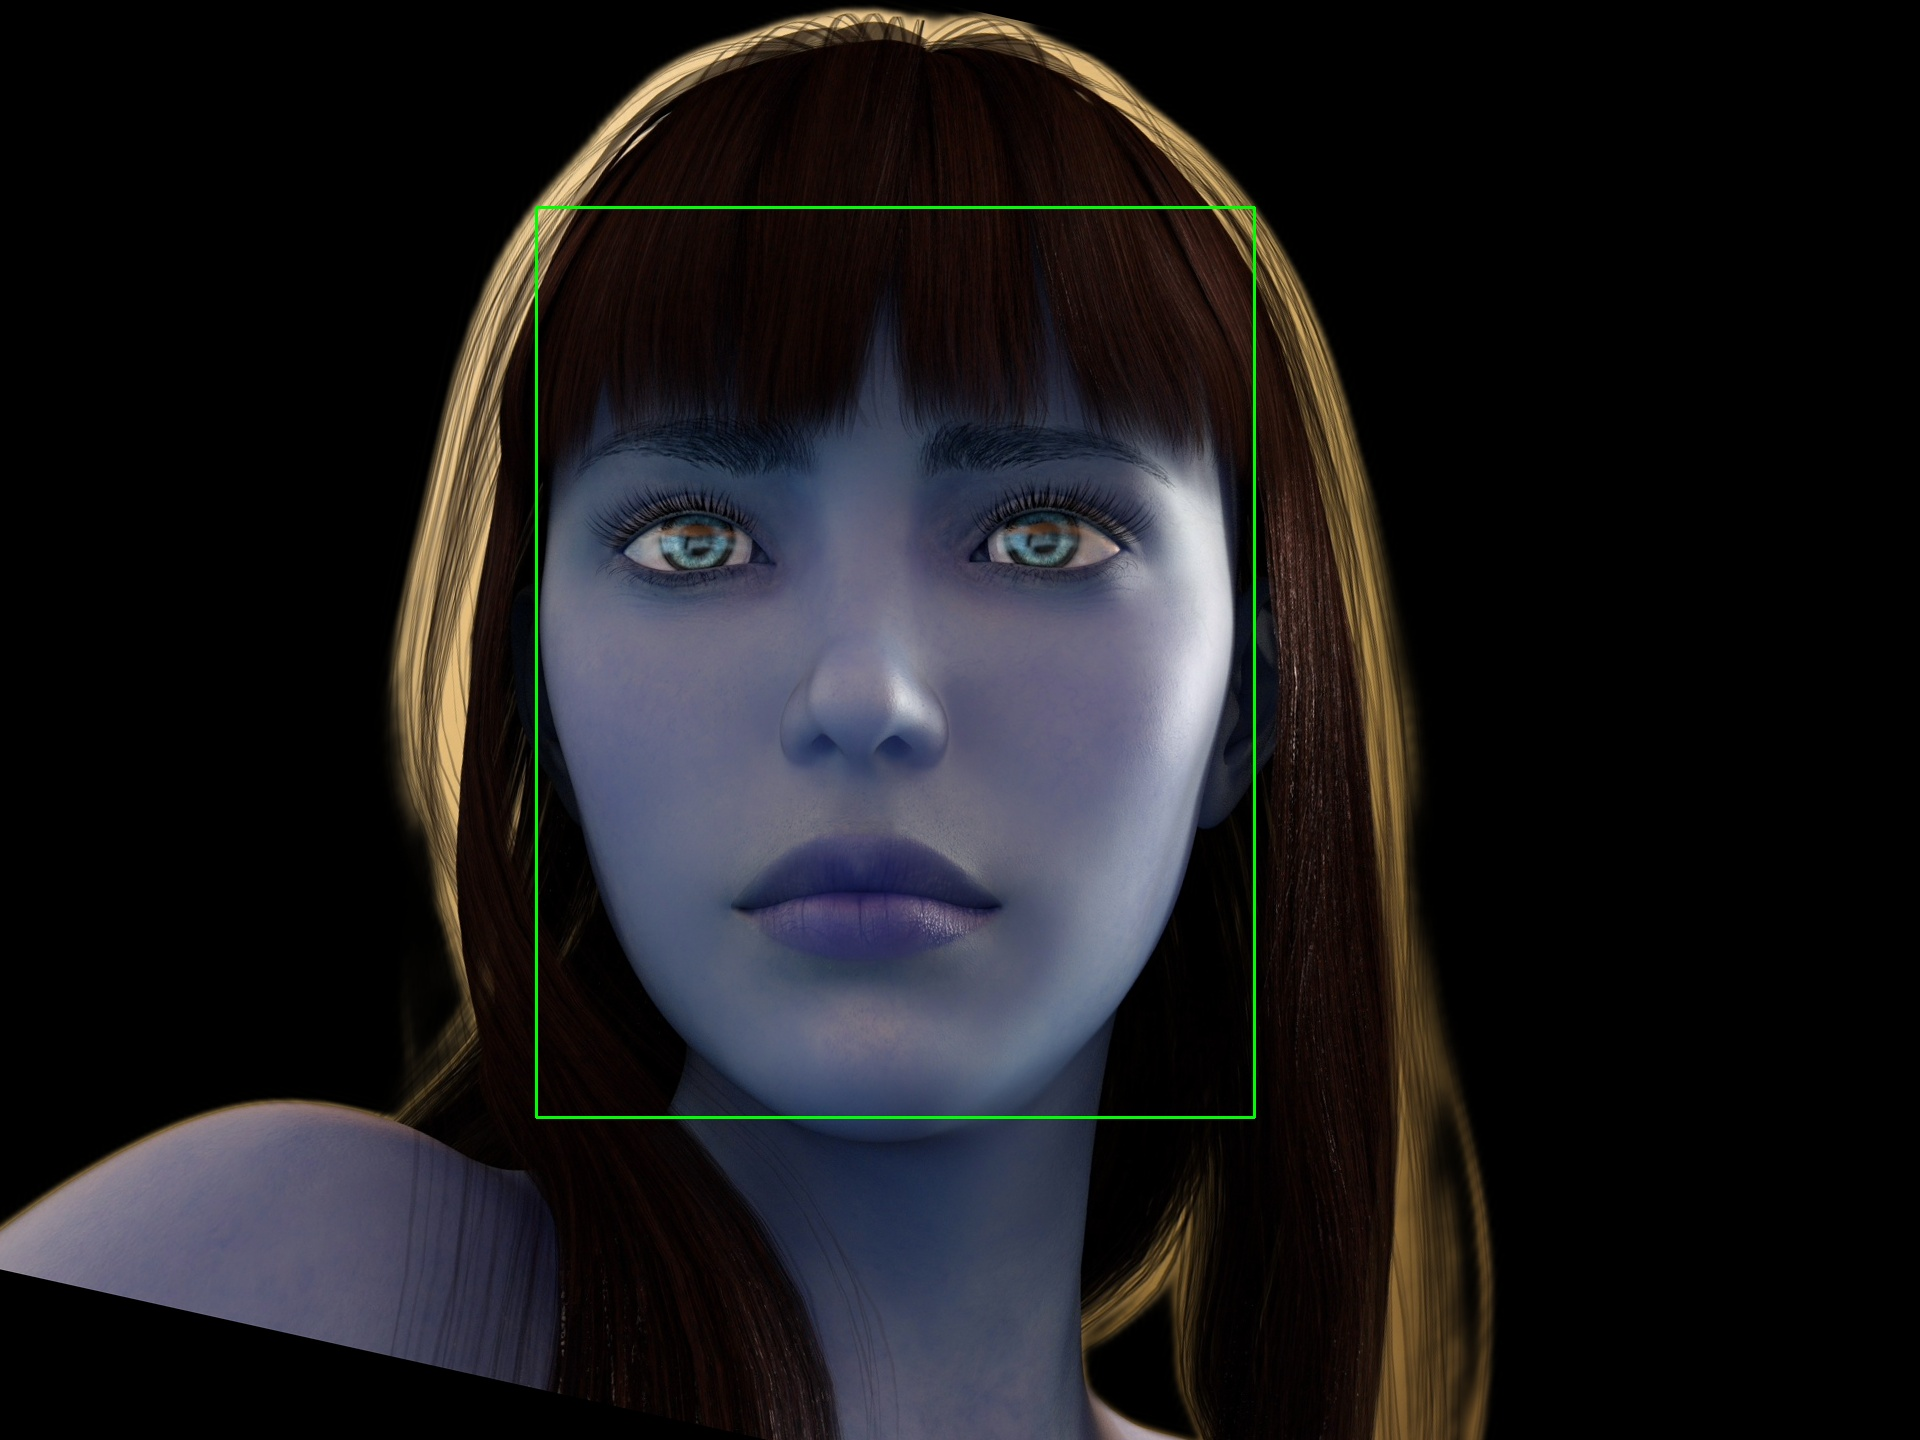
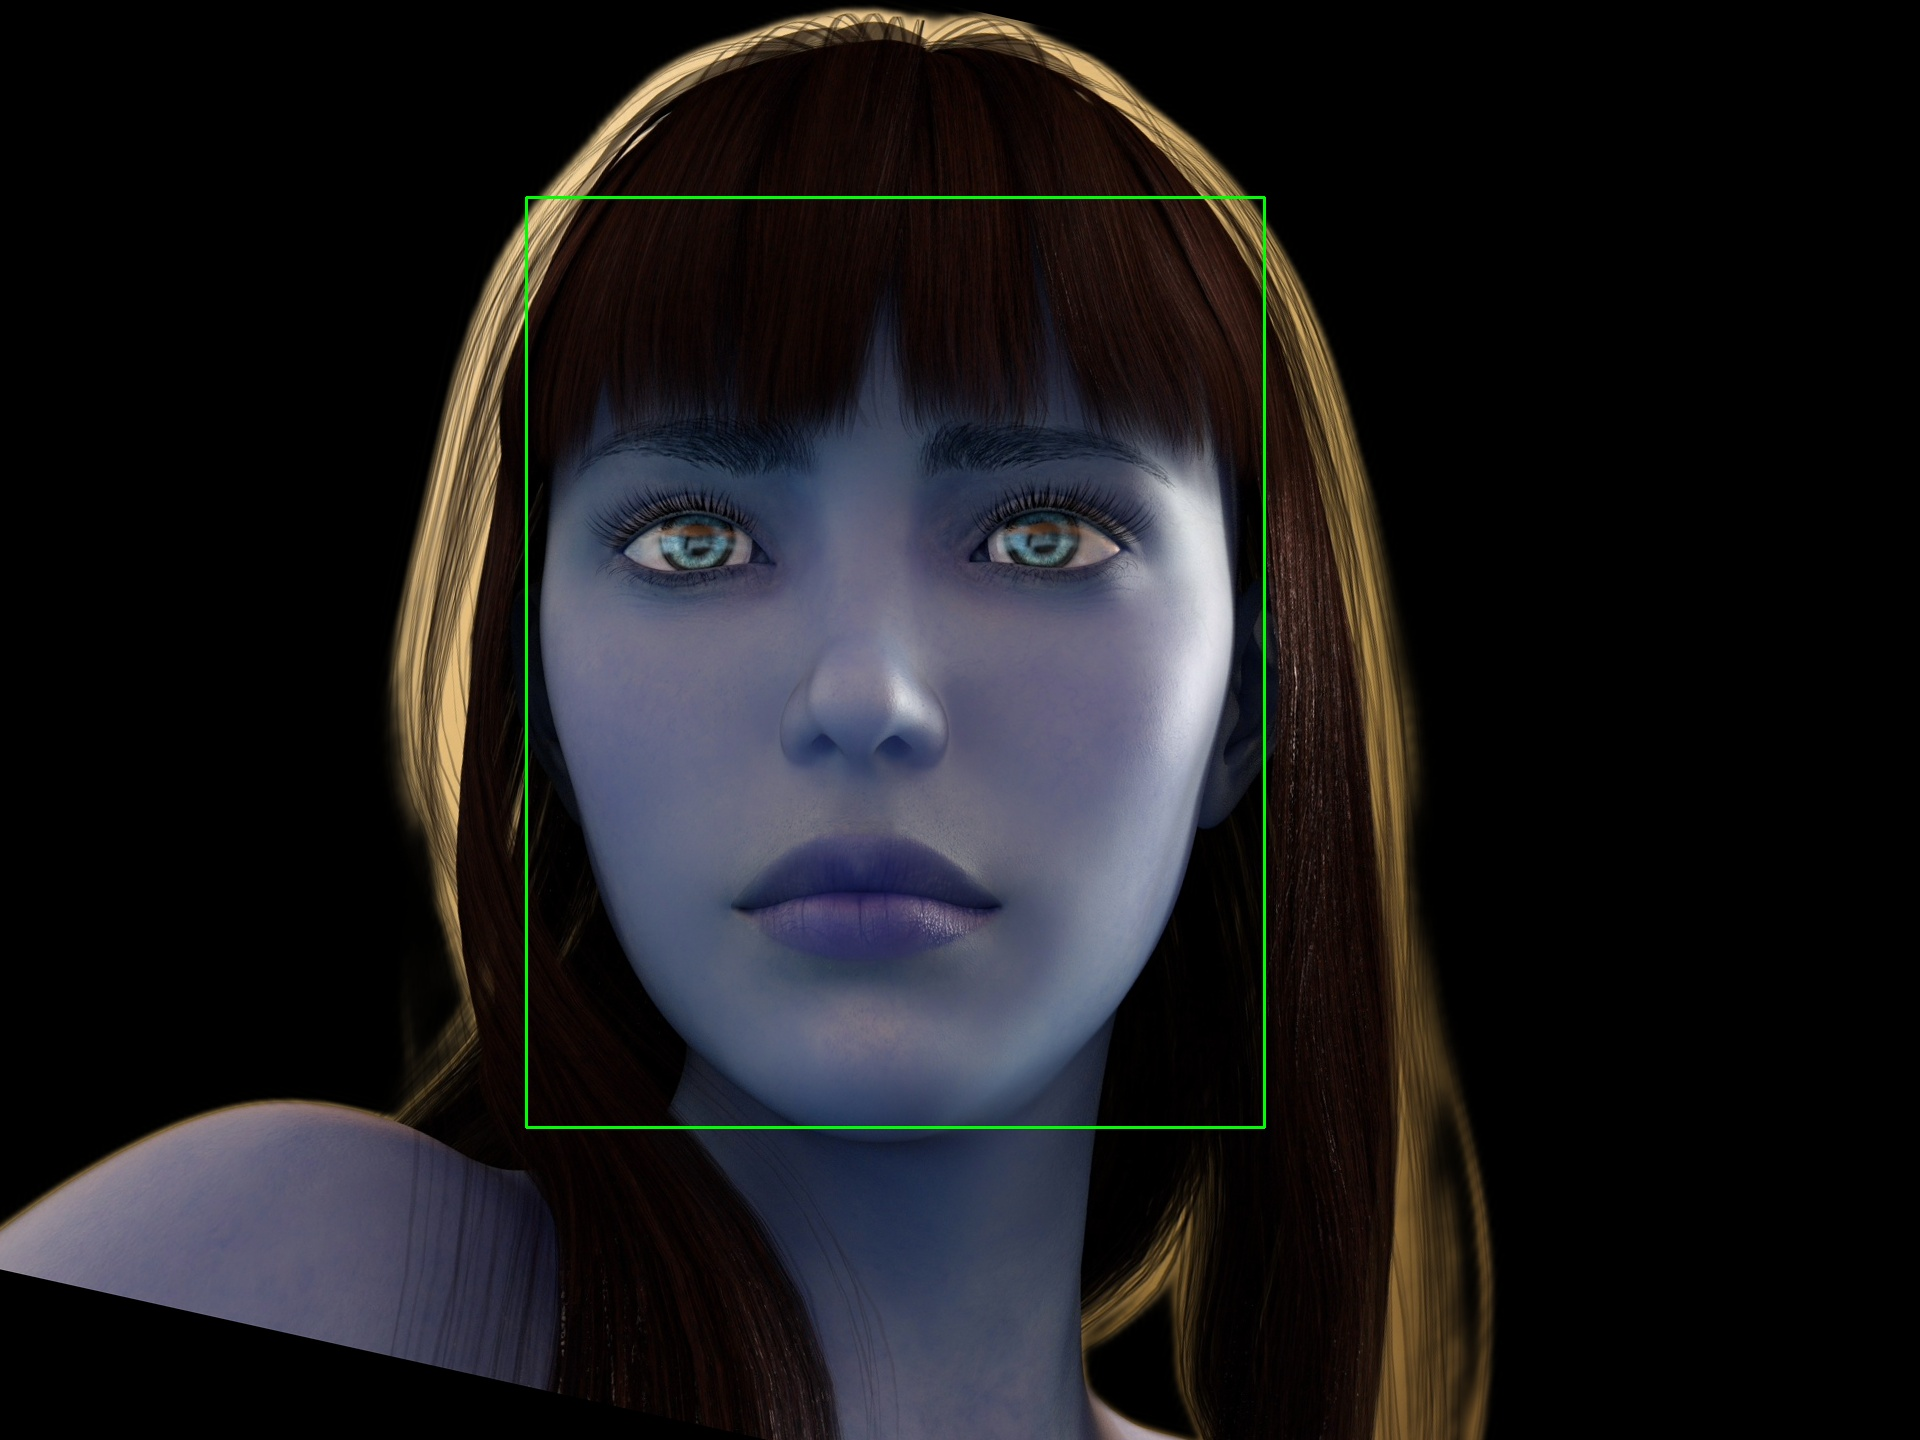
Add bound box scaling factor to the script

Changed region(s): [[0.25, 0.125, 0.6562, 0.8125]]

diff --git a/app.py b/app.py
@@ -110,7 +110,39 @@ for image_filename in os.listdir(input_dir):
 
             # Step 10: Draw the bounding box after alignment
             new_bbox = face.bbox.astype(int)
-            cv2.rectangle(aligned_face, (new_bbox[0], new_bbox[1]), (new_bbox[2], new_bbox[3]), (0, 255, 0), 2)
+
+            # Option 1: Scale the bounding box by a factor (e.g., 1.2 for 20% larger)
+            scale_factor = 1.75  # Change this value as needed (1.0 means no change)
+            width = new_bbox[2] - new_bbox[0]
+            height = new_bbox[3] - new_bbox[1]
+
+            # Calculate the new width and height based on the scale factor
+            new_width = int(width * scale_factor)
+            new_height = int(height * scale_factor)
+
+            # Calculate the new top-left and bottom-right corners to maintain the center
+            center_x = (new_bbox[0] + new_bbox[2]) // 2
+            center_y = (new_bbox[1] + new_bbox[3]) // 2
+
+            # Calculate the new bounding box coordinates
+            new_x1 = center_x - new_width // 2
+            new_y1 = center_y - new_height // 2
+            new_x2 = center_x + new_width // 2
+            new_y2 = center_y + new_height // 2
+
+            # Option 2: Add padding to the bounding box (e.g., 10 pixels)
+            padding = 10  # Change this value to control the padding
+            new_x1 = max(new_bbox[0] - padding, 0)
+            new_y1 = max(new_bbox[1] - padding, 0)
+            new_x2 = new_bbox[2] + padding
+            new_y2 = new_bbox[3] + padding
+
+            # Ensure the new bounding box is within image bounds
+            new_x2 = min(new_x2, image.shape[1])
+            new_y2 = min(new_y2, image.shape[0])
+
+            # Draw the modified bounding box
+            cv2.rectangle(aligned_face, (new_x1, new_y1), (new_x2, new_y2), (0, 255, 0), 2)
 
             # Step 11: Save the Output Images
             # Save the background-removed image (PNG)
